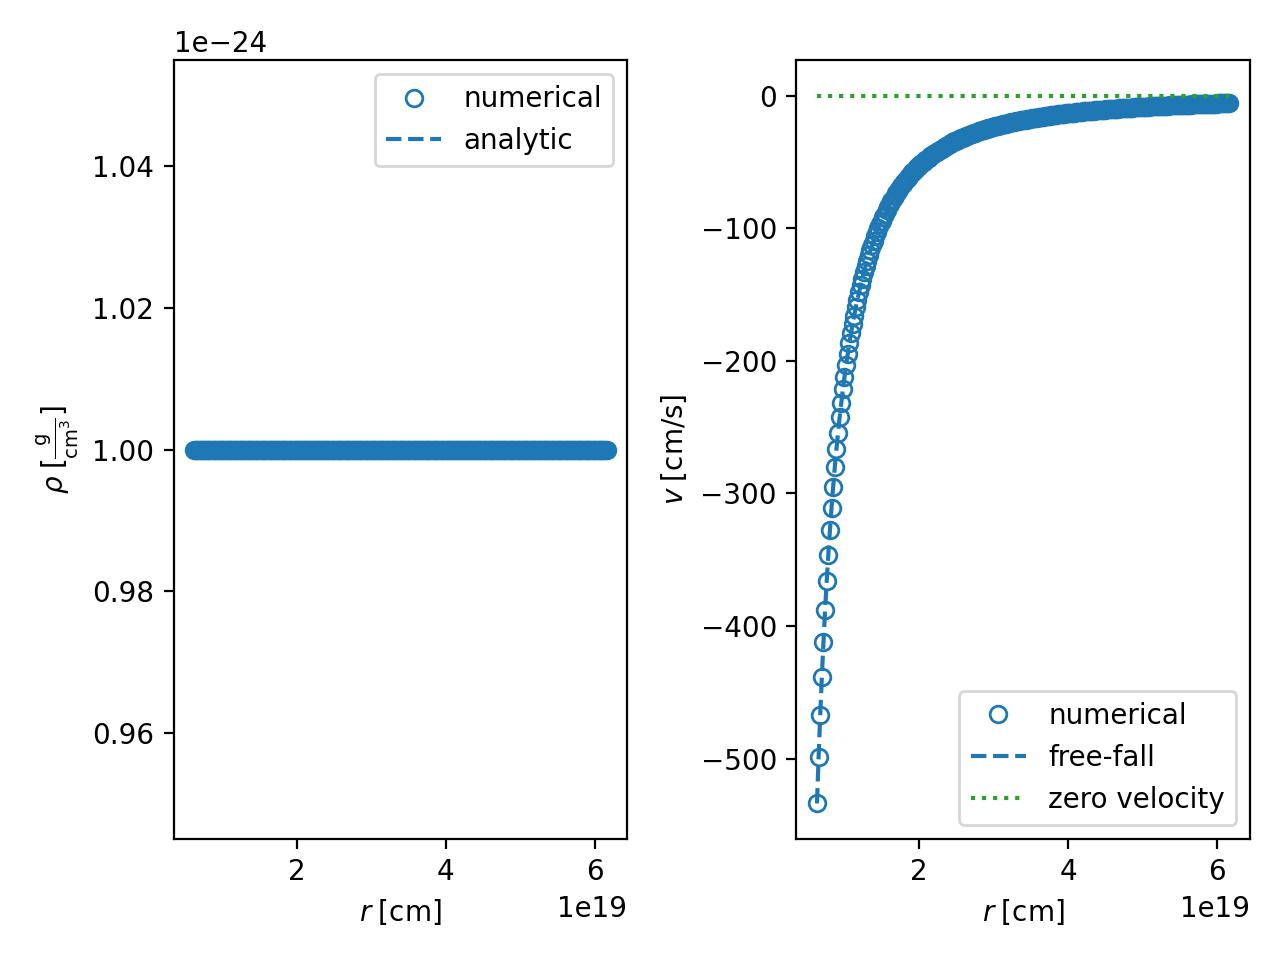
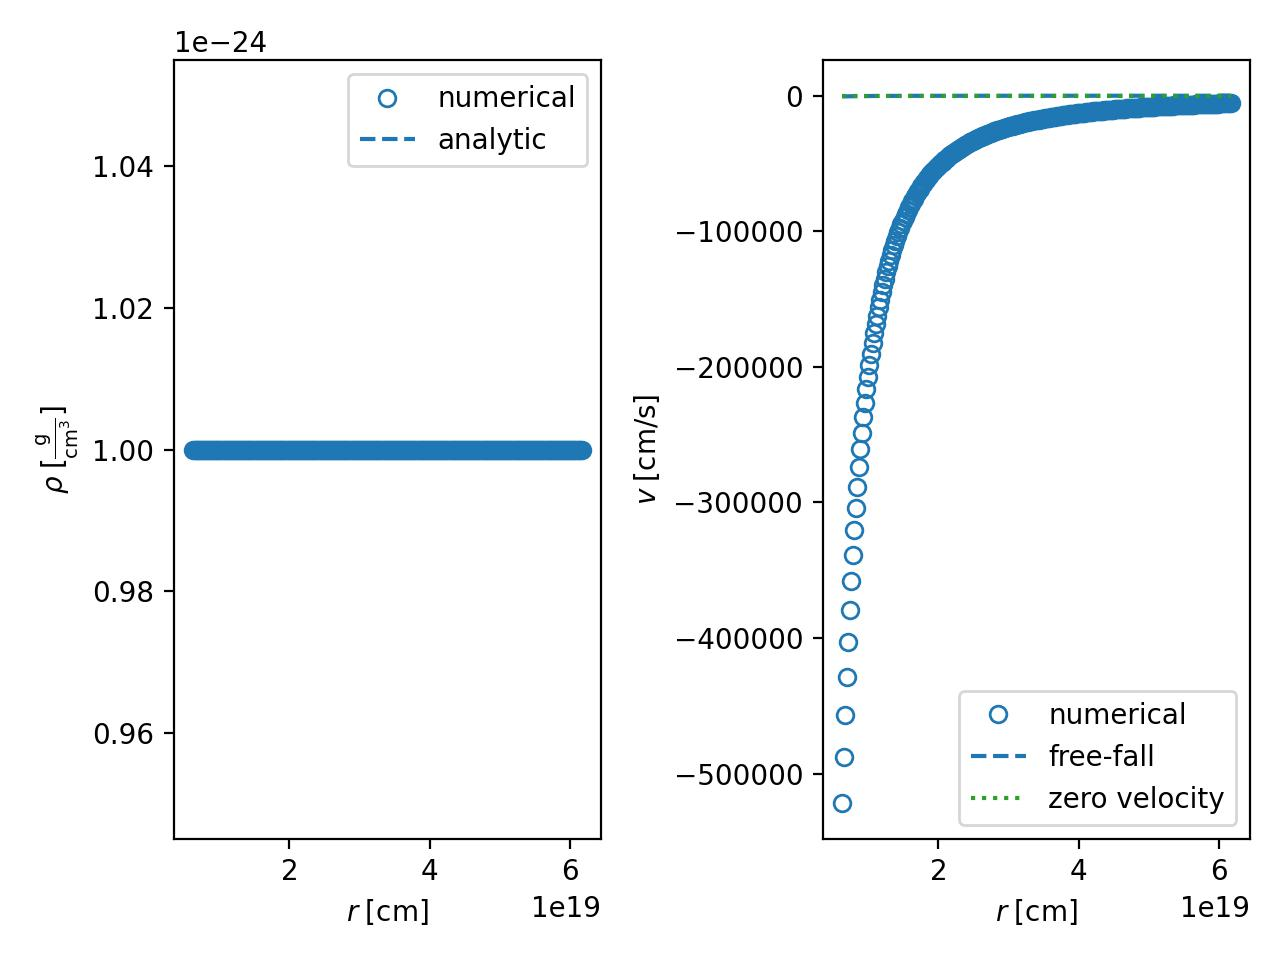
check there is no unyt array now.  fixed ballistic infall example

diff --git a/radhydropy/rsim/initialization.py b/radhydropy/rsim/initialization.py
@@ -1,6 +1,8 @@
 """Rsim execution subsystem helpers."""
 
 import time
+from dataclasses import fields, is_dataclass
+from collections.abc import Mapping
 import numpy as np
 import unyt
 
@@ -116,6 +118,84 @@ def ConvertParametersToCodeUnits(sim):
         'specific_angular_momentum': length_unit * units['velocity'],
     }
     apply_code_unit_specs(sim.par, _CODE_UNIT_GROUPS[-1].specs, unit_map)
+    nested_specs = {
+        "simulation": (
+            ("final_time", "time"),
+            ("current_time", "time"),
+            ("box_size", "length"),
+        ),
+        "output": (("cadence", "time"),),
+        "timestep": (
+            ("dtmin", "time"),
+            ("dtmax", "time"),
+            ("hydrogen_source_dtmin", "time"),
+        ),
+        "mesh": (("area", "area"),),
+        "boundary": (
+            ("inflow_velocity", "velocity"),
+            ("inflow_density", "density"),
+            ("inflow_temperature", "temperature"),
+            ("outflow_velocity", "velocity"),
+            ("outflow_density", "density"),
+            ("outflow_temperature", "temperature"),
+        ),
+        "radiation": (
+            ("boundary_flux", "photon_flux"),
+            ("source_photon_rate", "photon_rate"),
+            ("cmb_temperature_0", "temperature"),
+            ("hydrogen_ngamma_initial", "number_density"),
+            ("hydrogen_ngamma_inflow", "number_density"),
+            ("hydrogen_ngamma_outflow", "number_density"),
+            ("hydrogen_sigma_gamma", "area"),
+            ("hydrogen_epsilon_gamma", "energy"),
+        ),
+        "chemistry": (
+            ("hydrogen_alpha_B", "alpha"),
+            ("hydrogen_beta", "alpha"),
+            ("hydrogen_photon_energy", "energy"),
+        ),
+        "thermochemistry": (
+            ("cooling_temperature_floor", "temperature"),
+            ("hydrogen_implicit_absolute_temperature_tolerance", "temperature"),
+        ),
+    }
+    for group_name, specs in nested_specs.items():
+        group = getattr(sim.par, group_name, None)
+        if group is not None:
+            apply_code_unit_specs(group, specs, unit_map)
+    # The structured parameter groups are created before this conversion.
+    # Refresh the groups that contain values consumed directly by the runtime;
+    # otherwise, for example, ``simulation.final_time`` can retain the
+    # unitful YAML value while the flat ``timesim`` attribute is code-valued.
+    initialize_groups = getattr(sim.par, "_initialize_parameter_groups", None)
+    if initialize_groups is not None:
+        initialize_groups()
+        sync_simulation = getattr(
+            sim.par, "_sync_simulation_parameters", None
+        )
+        if sync_simulation is not None:
+            sync_simulation()
+    else:
+        for sync_name in (
+            "_sync_simulation_parameters",
+            "_sync_output_parameters",
+            "_sync_timestep_parameters",
+        ):
+            sync = getattr(sim.par, sync_name, None)
+            if sync is not None:
+                sync()
+    # Preserve compatibility with lightweight parameter namespaces used by
+    # component-level callers, which do not provide Par's sync methods.
+    simulation = getattr(sim.par, "simulation", None)
+    if simulation is not None and not hasattr(sim.par, "_sync_simulation_parameters"):
+        for nested_name, flat_name in (
+            ("final_time", "timesim"),
+            ("current_time", "time"),
+            ("box_size", "boxsize"),
+        ):
+            if hasattr(simulation, nested_name) and hasattr(sim.par, flat_name):
+                setattr(simulation, nested_name, getattr(sim.par, flat_name))
+    _require_unitless_runtime_parameters(sim)
     source_rate = getattr(
         sim.par,
         'radiative_transfer_source_photon_rate',
@@ -132,6 +212,64 @@ def ConvertParametersToCodeUnits(sim):
             )
         )
     sim._runtime_parameters_converted_to_code_units = True
+
+
+def _require_unitless_runtime_parameters(sim):
+    """Fail fast if any unitful value leaked into runtime parameters.
+
+    ``runparams`` is deliberately excluded because it preserves the original
+    unit-aware configuration for provenance and output.  ``units`` is also
+    excluded because it contains the code-unit definitions themselves.
+    """
+    leaked = []
+    visited = set()
+
+    def visit(value, path):
+        if value is None or id(value) in visited:
+            return
+        if hasattr(value, "to_value"):
+            leaked.append(path)
+            return
+        if isinstance(value, (str, bytes, int, float, bool, np.number)):
+            return
+        visited.add(id(value))
+        if isinstance(value, Mapping):
+            for name, child in value.items():
+                if name in {"CodeUnits", "unit_system"}:
+                    continue
+                visit(child, f"{path}.{name}")
+        elif is_dataclass(value):
+            for field in fields(value):
+                if field.name in {"CodeUnits", "unit_system", "model"}:
+                    continue
+                visit(getattr(value, field.name), f"{path}.{field.name}")
+        elif isinstance(value, (list, tuple, set)):
+            for index, child in enumerate(value):
+                visit(child, f"{path}[{index}]")
+        elif isinstance(value, np.ndarray) and value.dtype == object:
+            for index, child in np.ndenumerate(value):
+                visit(child, f"{path}{index}")
+        elif hasattr(value, "__dict__"):
+            for name, child in vars(value).items():
+                if name.startswith("_") or name in {
+                    "runparams", "units", "unit_system", "CodeUnits", "model",
+                }:
+                    continue
+                visit(child, f"{path}.{name}")
+
+    for name, value in vars(sim.par).items():
+        if name in {"runparams", "units", "unit_system", "CodeUnits"}:
+            continue
+        visit(value, f"par.{name}")
+
+    if leaked:
+        names = ", ".join(leaked[:20])
+        if len(leaked) > 20:
+            names += f", ... ({len(leaked)} total)"
+        raise TypeError(
+            "runtime parameters must be unitless code values after startup "
+            f"conversion; unitful value(s) found in: {names}"
+        )
 
 def _require_code_units(sim):
     """Return the active code-unit system or fail fast during startup."""

diff --git a/example/BallisticInfallSphericalPointMass1D/tools.py b/example/BallisticInfallSphericalPointMass1D/tools.py
@@ -122,15 +122,23 @@ class Simwrap:
         self.mesh = Mesh()
         self.fluid = Fluid()
         self.par.CodeUnits = code_units
+        from types import SimpleNamespace
+        self.par.units = SimpleNamespace(CodeUnits=code_units)
 
-        self.par.nogrid = icparams['nogrid']
-        self.par.coordsys = icparams['coordsys']
-        self.par.boxsize = np.ones(1) * icparams['boxsize']
-        self.par.time = np.ones(1) * icparams['time']
+        self.par.nogrid = icparams['grid_cells']
+        self.par.coordsys = icparams['coordinate_system']
+        self.par.boxsize = np.ones(1) * icparams['box_size']
+        self.par.time = np.ones(1) * icparams['current_time']
+        self.par.mesh = SimpleNamespace(grid_cells=self.par.nogrid, ghost_cells=0)
+        self.par.simulation = SimpleNamespace(
+            coordinate_system=self.par.coordsys,
+            current_time=self.par.time,
+            box_size=self.par.boxsize,
+        )
 
         self.mesh.boundary = np.linspace(
-            icparams['rmin'],
-            icparams['rmax'],
+            icparams['inner_radius'],
+            icparams['outer_radius'],
             self.par.nogrid + 1,
         )
         self.mesh.coordinate = spherical_cell_centers(self.mesh.boundary)
@@ -142,12 +150,12 @@ class Simwrap:
             / 3.0
         )
 
-        self.fluid.temp = np.ones(self.par.nogrid) * icparams['tempini']
-        self.fluid.mu = np.ones(self.par.nogrid) * icparams['muini']
+        self.fluid.temp = np.ones(self.par.nogrid) * icparams['initial_temperature']
+        self.fluid.mu = np.ones(self.par.nogrid) * icparams['mean_molecular_weight']
         self.fluid.vel = np.zeros(self.par.nogrid) * unyt.cm / unyt.s
         self.fluid.rho = ballistic_density_profile(
             self.mesh.coordinate,
-            icparams['rho_ref'],
+            icparams['reference_density'],
         )
 
 
@@ -168,7 +176,7 @@ def ReadandPlot(outfilename, icparams, runparams, **kwargs):
         xcoord = xall
         rho_num = rout.fluid.rho
         vel_num = rout.fluid.vel
-    rho_analytic = ballistic_density_profile(xcoord, icparams['rho_ref'])
+    rho_analytic = ballistic_density_profile(xcoord, icparams['reference_density'])
     vel_analytic = ballistic_velocity_profile(
         xcoord,
         icparams['point_mass'],

diff --git a/radhydropy/units.py b/radhydropy/units.py
@@ -82,8 +82,11 @@ _CODE_UNIT_GROUPS = (
             ('dtmax', 'time'),
             ('relaxation_damping_time', 'time'),
             ('outdeltatime', 'time'),
+            ('hydrogen_source_dtmin', 'time'),
             ('boxsize', 'length'),
             ('area', 'area'),
+            ('selfgravity_softening', 'length'),
+            ('selfgravity_boundary_acceleration', 'acceleration'),
             ('rho_inflow', 'density'),
             ('rho_outflow', 'density'),
             ('vel_inflow', 'velocity'),
@@ -93,6 +96,10 @@ _CODE_UNIT_GROUPS = (
             ('temperature', 'temperature'),
             ('temp_inflow', 'temperature'),
             ('temp_outflow', 'temperature'),
+            ('cooling_temperature_floor', 'temperature'),
+            ('hydrogen_implicit_absolute_temperature_tolerance', 'temperature'),
+            ('cmb_temperature_0', 'temperature'),
+            ('hydrogen_photon_energy', 'energy'),
             ('hydrogen_ngamma_initial', 'number_density'),
             ('hydrogen_ngamma_inflow', 'number_density'),
             ('hydrogen_ngamma_outflow', 'number_density'),
@@ -189,8 +196,21 @@ def from_unit_value(value, unit):
 def apply_code_unit_specs(obj, specs, units):
     """Apply code-unit conversions for each named attribute in ``specs``."""
     for attr, unit_key in specs:
+        parameter_values = getattr(obj, "_parameter_values", None)
         if hasattr(obj, attr):
-            setattr(obj, attr, quantity_to_value(getattr(obj, attr), units[unit_key]))
+            source = getattr(obj, attr)
+        elif parameter_values is not None and attr in parameter_values:
+            source = parameter_values[attr]
+        else:
+            continue
+        value = quantity_to_value(source, units[unit_key])
+        if hasattr(obj, attr):
+            setattr(obj, attr, value)
+        # ``Par`` uses this mapping as the source of truth when rebuilding its
+        # nested runtime groups. Keep it synchronized with the conversion,
+        # including fields intentionally exposed only through nested groups.
+        if parameter_values is not None and attr in parameter_values:
+            parameter_values[attr] = value
 
 
 def time_seconds(value, code_units=None):

diff --git a/example/BallisticInfallSphericalPointMass1D/ballistic_infall_spherical_point_mass1d.py b/example/BallisticInfallSphericalPointMass1D/ballistic_infall_spherical_point_mass1d.py
@@ -11,7 +11,6 @@ if str(PROJECT_ROOT) not in sys.path:
 if str(EXAMPLE_ROOT) not in sys.path:
     sys.path.insert(0, str(EXAMPLE_ROOT))
 
-from radhydropy.example_config import load_example_parameters
 from radhydropy.gravity import Gravity
 from radhydropy.rsim import Rsim
 from radhydropy.units import CodeUnits
@@ -36,14 +35,17 @@ DEFAULT_CONFIG = Path(__file__).resolve().with_name(
 def main(config_filename=DEFAULT_CONFIG):
     rundir = Path.cwd().resolve()
     print('rundir', rundir)
-    runparams, ICparams = load_example_parameters(config_filename, rundir)
-    eu.clean_previous_outputs(runparams)
-    code_units_obj = CodeUnits.from_mapping(runparams.get('CodeUnits'))
+    nested = eu.load_nested_example_config(config_filename)
+    runtime = nested['par']
+    ICparams = nested['initial_condition']
+    runparams = eu.legacy_example_parameters(nested)
+    eu.clean_previous_outputs(runtime['output'])
+    code_units_obj = CodeUnits.from_mapping(runtime['units']['CodeUnits'])
 
     ric = et.Simwrap(ICparams, code_units=code_units_obj)
     rio.writehdf5(ric, runparams['ICfilename'])
 
-    mainrun = Rsim(runparams)
+    mainrun = Rsim(runtime)
     mainrun.Callreadhdf5()
     mainrun.SetMesh()
     mainrun.SetFluid()
@@ -52,15 +54,15 @@ def main(config_filename=DEFAULT_CONFIG):
         externalgravity=True,
         acceleration=et.point_mass_acceleration(
             ICparams['point_mass'],
-            code_units=mainrun.par.CodeUnits,
+            code_units=code_units_obj,
         ),
-        code_units=mainrun.par.CodeUnits,
+        code_units=code_units_obj,
     )
     mainrun.Run(mode='hydro')
 
     final_outfile = os.path.join(
-        runparams['outdir'],
-        runparams['outfileprefix'] + '_001.hdf5',
+        runtime['output']['directory'],
+        runtime['output']['filename_prefix'] + '_001.hdf5',
     )
     et.ReadandPlot(
         final_outfile,
@@ -73,7 +75,7 @@ def main(config_filename=DEFAULT_CONFIG):
         color='C0',
     )
     figure_filename = os.path.join(
-        runparams['savedir'],
+        runtime['output']['savedir'],
         'BallisticInfallSphericalPointMass1D.jpg',
     )
     plt.tight_layout()

diff --git a/radhydropy/example_config.py b/radhydropy/example_config.py
@@ -87,6 +87,19 @@ def load_example_parameters(config_filename, rundir=None):
         icparams.setdefault(
             'number_of_cells', mesh.get('grid_cells', icparams.get('grid_cells'))
         )
+        icparams.setdefault('nogrid', icparams.get('grid_cells'))
+        icparams.setdefault('coordsys', icparams.get('coordinate_system'))
+        icparams.setdefault('boxsize', icparams.get('box_size'))
+        for alias, source in (
+            ('rmin', 'inner_radius'),
+            ('rmax', 'outer_radius'),
+            ('rho_ref', 'reference_density'),
+            ('tempini', 'initial_temperature'),
+            ('muini', 'mean_molecular_weight'),
+            ('time', 'current_time'),
+        ):
+            if alias not in icparams and source in icparams:
+                icparams[alias] = icparams[source]
         for group in ('chemistry', 'thermochemistry', 'radiation'):
             runparams.update(nested_par.get(group, {}))
         runparams.setdefault(

diff --git a/radhydropy/output.py b/radhydropy/output.py
@@ -98,6 +98,10 @@ def run_with_output_times(
             )
         else:
             code_units = getattr(sim.par, 'CodeUnits', None)
+            if code_units is None:
+                code_units = getattr(
+                    getattr(sim.par, 'units', None), 'CodeUnits', None
+                )
             sorted_values = np.unique(
                 np.asarray(output_times.to_value(unyt.s), dtype=float)
                 / code_unit_scales(code_units)['time_s']
